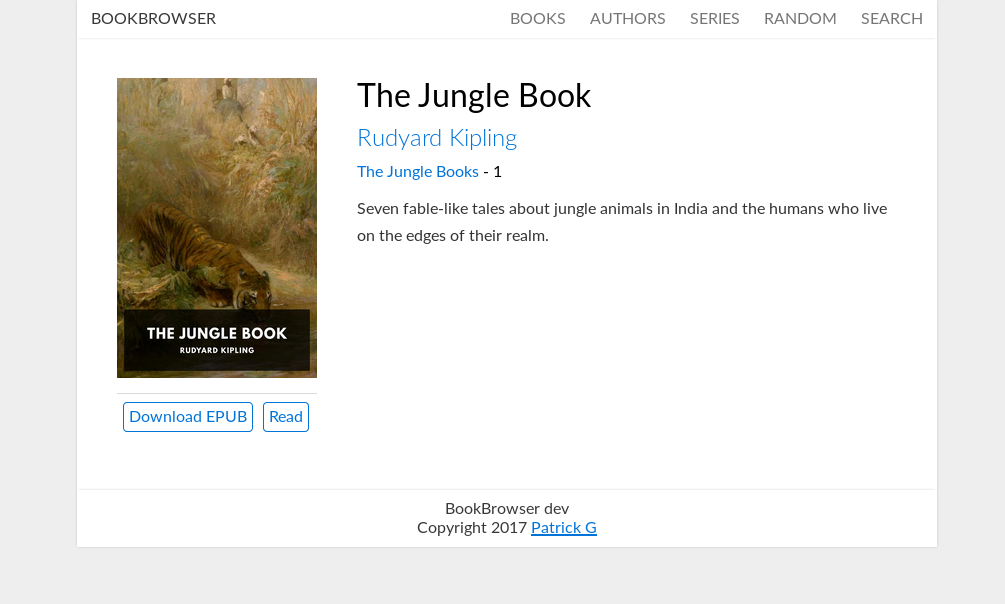
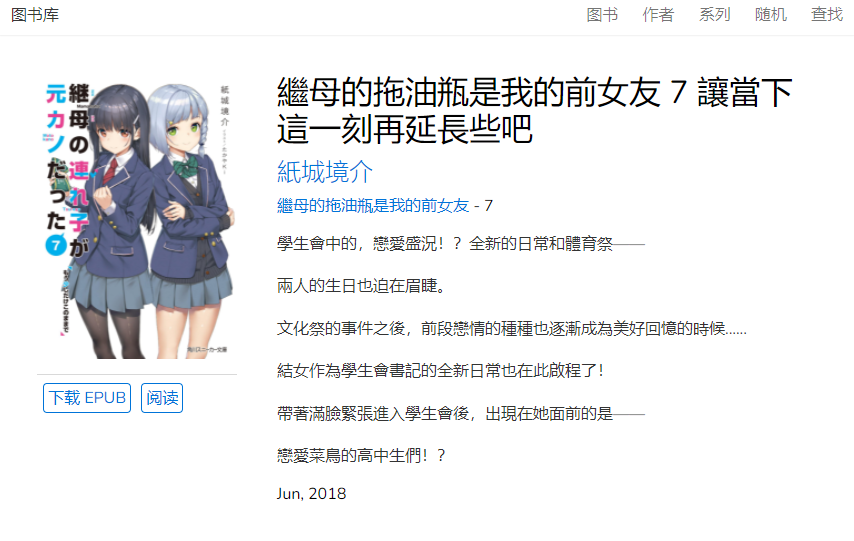
更新截图

diff --git a/README.md b/README.md
@@ -1,66 +1,83 @@
-# BookBrowser
-[![Build Status](https://travis-ci.org/geek1011/BookBrowser.svg?branch=master)](https://travis-ci.org/geek1011/BookBrowser)
 
-**Note:** This project is no longer maintained, as I haven't had the time or motivation to continue working on it. BookBrowser will still work as-is (I still use it myself occasionally), but is unlikely to receive any new features or bugfixes.
+# 图书库
 
-An easy-to-use tool to generate a web-based ePub and PDF ebook browser. All you need to do is [download it](https://github.com/geek1011/BookBrowser/releases/latest) into the folder with your ebooks, and run it. There is also a [demo](https://bookbrowser-demo.geek1011.net/books/).
+这是nas端图书管理器BookBrowser的汉化版
 
-## Features
-- Multiple book formats
-    - epub
-    - pdf
-    - mobi (basic support)
-- Search
-- Advanced Search
-    - Search any combination of fields
-    - View all information in the results
-- List view
-- Responsive web interface
-- Update notifications
-- Browse by:
-    - Author
-    - Series (from calibre metadata)
-- Sorted by:
-    - Last added
-    - Alphabetically
-    - Series
-- Web based reader
-    - Custom fonts, colors, sizing, spacing
-    - Remembers your position
-    - Book search
-    - And more
-- Search
-- And more
-- Easy-to-use
-- Fast
-- No extra dependencies
+一个易于使用的工具，用于生成基于 Web 的 ePub 和 PDF 电子书浏览器。您需要做的就是将其下载到您的电子书所在的文件夹中，然后运行它。还有一个演示。
 
-## Screenshots
+# 特征
+多种书籍格式
+
+电子版
+
+pdf
+
+mobi（基本支持）
+
+搜索
+
+高级搜索
+
+搜索任意字段组合
+
+查看结果中的所有信息
+
+列表显示
+
+响应式网页界面
+
+更新通知
+
+浏览方式：
+
+作者
+
+系列
+
+排序：
+
+最后添加
+
+按字母顺序
+
+基于网络的阅读器
+
+自定义字体、颜色、大小、间距
+
+记住你的阅读位置
+
+图书搜索
+
+使用方便快速
+
+没有额外的依赖
+
+## 截图
 
 | ![](docs/screenshots/books-mobile.png) | ![](docs/screenshots/books-list-mobile.png) | ![](docs/screenshots/authors-mobile.png) | ![](docs/screenshots/book-mobile.png) |
 | --- | --- | --- | --- |
 | ![](docs/screenshots/books-desktop.png) | ![](docs/screenshots/books-list-desktop.png) | ![](docs/screenshots/authors-desktop.png) | ![](docs/screenshots/book-desktop.png) |
 
-## Reader Screenshots
+## 阅读器截图
 
-| Desktop | Mobile |
+| 桌面 | 移动 |
 | --- | --- |
 | ![](docs/screenshots/reader-desktop.png) | ![](docs/screenshots/reader-mobile.png) |
 
-## Advanced Search
+## 高级搜索
 
 | ![](docs/screenshots/list-desktop.png) |
 | --- |
 | |
 
-## System Requirements
-The server works on all platforms.
+## 系统要求
+服务器适用于所有平台。
 
-The web interface works on IE 9+, Edge, Firefox 3+, Chrome, Safari 5.1+, Opera 17+, and Android browser 4.4+.
+Web 界面适用于 IE 9+、Edge、Firefox 3+、Chrome、Safari 5.1+、Opera 17+ 和 Android 浏览器 4.4+。
 
-The web-based reader works on IE 10+, Edge, Firefox 28+, Chrome 21+, Safari 9+, Opera 17+, and Android browser 4.4+.
+基于网络的阅读器适用于 IE 10+、Edge、Firefox 28+、Chrome 21+、Safari 9+、Opera 17+ 和 Android 浏览器 4.4+。
 
-## Usage
+## 用法
 
 ```
 Usage: BookBrowser [OPTIONS]
